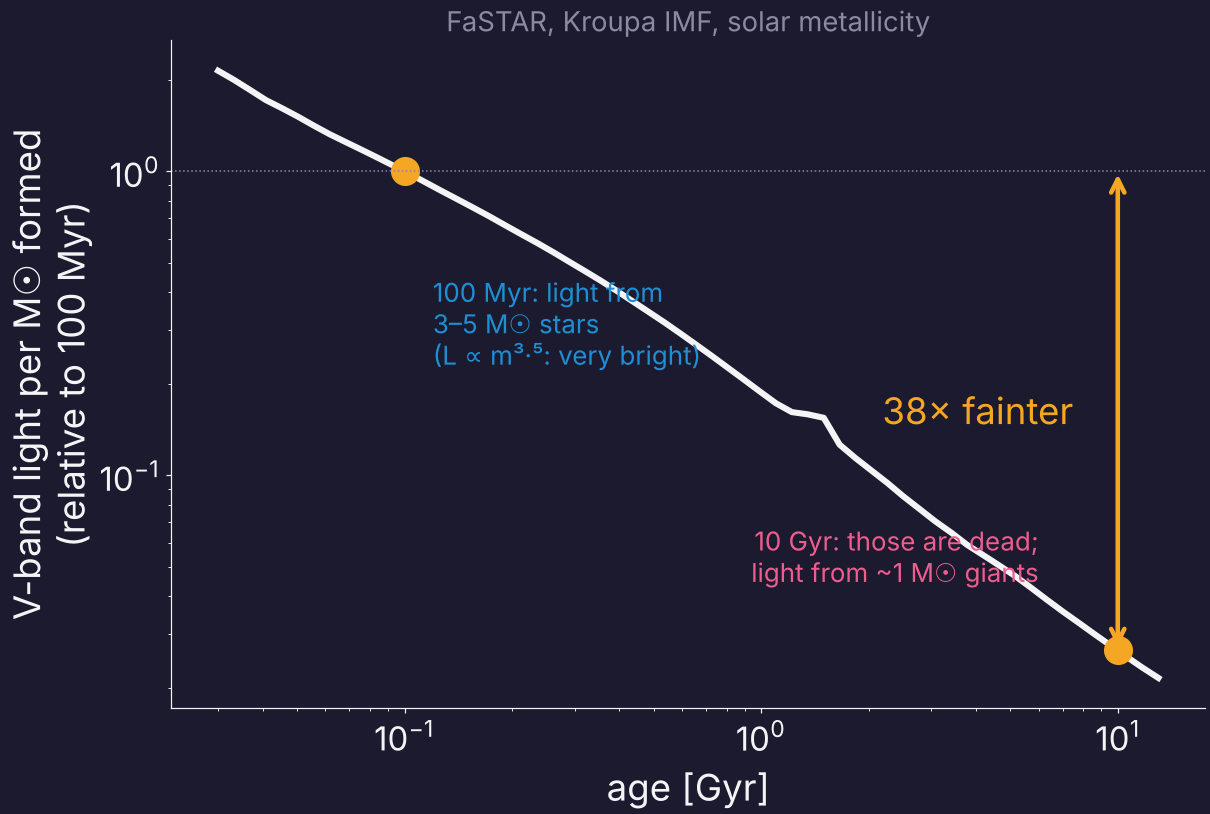
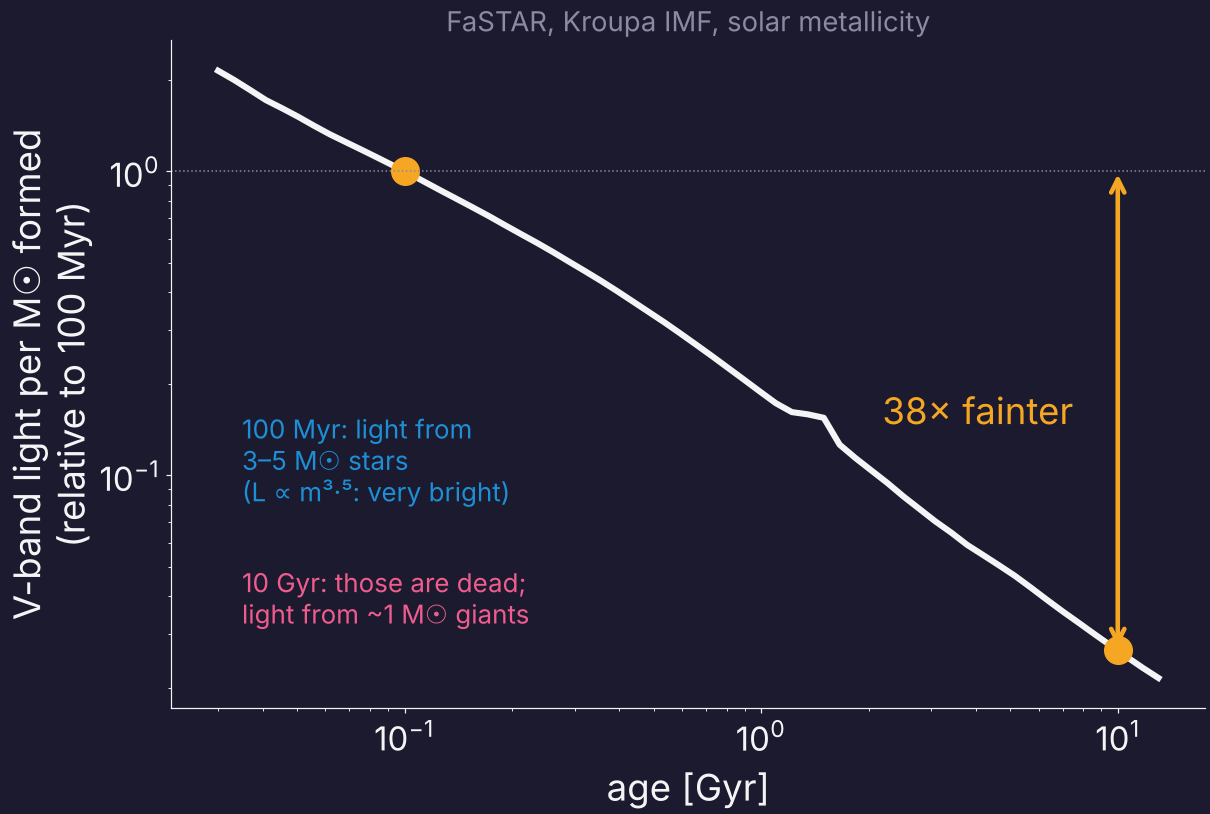
Notation, worked-example and element-clock figures for L2; fix recap fading figure
Claude-Session: https://claude.ai/code/session_01WBTdaRnm2ChJRsu6zYFdBL

diff --git a/figures/make_notation_figs.py b/figures/make_notation_figs.py
@@ -1,0 +1,157 @@
+"""Figures for the notation section and the 'which elements tell time' slide of Lecture 2.
+Run: python make_notation_figs.py  ->  slides_elements/n*.png, ex*.png, t_clock.png
+Solar abundances: Asplund et al. (2009, ARA&A 47, 481).
+"""
+import os, sys
+sys.path.insert(0, os.path.join(os.path.dirname(__file__), ".."))
+import numpy as np
+import matplotlib.pyplot as plt
+from matplotlib.patches import Rectangle
+from stellarpops import run_one_zone
+from stellarpops.origins import SOURCES
+from stellarpops.style import use_slide_style, BG, FG, BLUE, ORANGE, PINK, GREEN, GREY
+
+HERE = os.path.dirname(os.path.abspath(__file__))
+OUT = os.path.join(HERE, "slides_elements"); os.makedirs(OUT, exist_ok=True)
+use_slide_style(scale=1.25)
+plt.rcParams["font.family"] = "DejaVu Sans"
+VIOLET = "#b39dff"
+# log eps (Asplund+09) and atomic masses
+A09 = {"H": (12.00, 1.008), "He": (10.93, 4.003), "C": (8.43, 12.011), "N": (7.83, 14.007), "O": (8.69, 15.999),
+       "Ne": (7.93, 20.18), "Na": (6.24, 22.99), "Mg": (7.60, 24.305), "Al": (6.45, 26.98), "Si": (7.51, 28.085),
+       "S": (7.12, 32.06), "Ar": (6.40, 39.95), "Ca": (6.34, 40.08), "Cr": (5.64, 52.0), "Fe": (7.50, 55.845),
+       "Ni": (6.22, 58.69), "Ba": (2.18, 137.3), "Eu": (0.52, 152.0)}
+
+
+def save(fig, name):
+    fig.savefig(os.path.join(OUT, name + ".png"), dpi=110); plt.close(fig); print("saved", name)
+
+
+# N1 ---------------------------------------------------------- the Sun by mass
+def n1():
+    m = {k: 10 ** (e - 12) * a for k, (e, a) in A09.items()}
+    tot = sum(m.values()); X, Y = m["H"] / tot, m["He"] / tot; Z = 1 - X - Y
+    met = {k: v / tot / Z for k, v in m.items() if k not in ("H", "He")}
+    fig, (a1, a2) = plt.subplots(1, 2, figsize=(14, 7.2), gridspec_kw=dict(width_ratios=[1, 1.5], wspace=0.35))
+    fig.subplots_adjust(left=0.05, right=0.98, top=0.88, bottom=0.14)
+    # left: X, Y, Z stacked bar
+    y0 = 0
+    for lab, v, c in (("X  hydrogen", X, BLUE), ("Y  helium", Y, GREEN), ("Z  'metals'", Z, ORANGE)):
+        a1.bar(0, v, bottom=y0, color=c, width=0.6)
+        if v > 0.05:
+            a1.text(0.4, y0 + v * (0.3 if "helium" in lab else 0.5), f"{lab}\n{v:.3f}", va="center", fontsize=19, color=c)
+        else:
+            a1.annotate(f"{lab} {v:.4f}", (0.3, y0 + v / 2), (0.45, 0.94), fontsize=17, color=c,
+                        arrowprops=dict(arrowstyle="->", color=c, lw=2))
+        y0 += v
+    a1.set_xlim(-0.4, 1.6); a1.set_ylim(0, 1.0); a1.set_xticks([]); a1.set_ylabel("mass fraction")
+    a1.set_title("the Sun by mass", fontsize=20, color=GREY, pad=18)
+    a1.spines["bottom"].set_visible(False)
+    # right: what Z is made of
+    keys = ["O", "C", "Fe", "Ne", "Si", "Mg", "N", "S", "rest"]
+    vals = [met[k] for k in keys[:-1]]; vals.append(1 - sum(vals))
+    cols = [BLUE if k in ("O", "Ne", "Mg", "Si", "S") else ORANGE if k == "Fe" else GREEN if k in ("C", "N") else GREY for k in keys]
+    a2.barh(np.arange(len(keys))[::-1], np.array(vals) * 100, color=cols)
+    for i, (k, v) in enumerate(zip(keys, vals)):
+        a2.text(v * 100 + 0.8, len(keys) - 1 - i, f"{100 * v:.0f}%", va="center", fontsize=18)
+    a2.set_yticks(np.arange(len(keys))[::-1]); a2.set_yticklabels(keys, fontsize=20)
+    a2.set_xlabel("% of the metal mass Z"); a2.set_xlim(0, 52)
+    a2.set_title("what the 1.3% of 'metals' is made of", fontsize=20, color=GREY)
+    print("N1: X Y Z", round(X, 4), round(Y, 4), round(Z, 4), {k: round(100 * v) for k, v in zip(keys, vals)})
+    save(fig, "n1_sun_composition")
+
+
+# N2 ---------------------------------------------------------- log eps ladder
+def n2():
+    fig, ax = plt.subplots(figsize=(14, 7.6)); fig.subplots_adjust(left=0.1, right=0.97, top=0.95, bottom=0.08)
+    show = [("H", 12.00, BLUE), ("He", 10.93, GREEN), ("O", 8.69, BLUE), ("C", 8.43, GREEN), ("Mg", 7.60, BLUE),
+            ("Fe", 7.50, ORANGE), ("Ba", 2.18, GREEN), ("Eu", 0.52, PINK)]
+    ax.set_ylim(-0.5, 12.8); ax.set_xlim(0, 10); ax.set_xticks([])
+    ax.set_ylabel("log ε(X) = log₁₀(N_X / N_H) + 12")
+    for s in ("top", "right", "bottom"):
+        ax.spines[s].set_visible(False)
+    xpos = {"H": 0.6, "He": 0.6, "O": 0.6, "C": 5.4, "Mg": 0.6, "Fe": 5.4, "Ba": 0.6, "Eu": 0.6}
+    def per(n):
+        if n < 1e6:
+            return f"1 per {n:,.0f} H"
+        ex = int(np.floor(np.log10(n))); return f"1 per {n / 10 ** ex:.0f} × 10^{ex} H"
+    for k, e, c in show:
+        x = xpos[k]
+        if x < 2:
+            ax.plot([0, x - 0.1], [e, e], color=c, lw=1.5, ls=":")
+        ax.text(x, e, f"{k}  {e:.2f}", va="center", fontsize=20, color=c, fontweight="bold")
+        ax.text(x + 1.9, e, "the reference" if k == "H" else per(10 ** (12 - e)), va="center", fontsize=16, color=GREY)
+    ax.text(9.9, 5.6, "1 step down = 10× fewer atoms", ha="right", fontsize=17, color=FG)
+    ax.annotate("", (9.5, 4.0), (9.5, 5.0), arrowprops=dict(arrowstyle="->", color=FG, lw=2))
+    print("N2 done")
+    save(fig, "n2_logeps_ladder")
+
+
+# EX1 -------------------------------------------------------- the star on the plateau
+def ex1():
+    r = run_one_zone(tau_sf=2.0, infall_tau=7.0, eta=1.0)
+    ok = np.isfinite(r["FeH"]) & (r["FeH"] > -3.4)
+    fig, ax = plt.subplots(figsize=(11, 7.2)); fig.subplots_adjust(left=0.13, right=0.97, top=0.95, bottom=0.13)
+    ax.plot(r["FeH"][ok], r["MgFe"][ok], color=BLUE, lw=4, label="toy Milky-Way model (notebook 03)")
+    ax.plot(-1.5, 0.4, "*", ms=34, color=ORANGE, mec=FG, label="our star: [Fe/H] = −1.5, [Mg/Fe] = +0.4")
+    ax.axhline(0, color=GREY, lw=1, ls=":"); ax.axvline(0, color=GREY, lw=1, ls=":")
+    ax.text(-3.3, 0.5, "plateau: massive-star SNe only", fontsize=17, color=GREY)
+    ax.text(-0.95, -0.15, "white dwarfs add iron\n→ [Mg/Fe] falls", fontsize=17, color=GREY)
+    ax.set_xlim(-3.4, 0.5); ax.set_ylim(-0.3, 0.7)
+    ax.set_xlabel("[Fe/H]"); ax.set_ylabel("[Mg/Fe]"); ax.legend(loc="lower left", fontsize=15)
+    save(fig, "ex1_star_on_plateau")
+
+
+# EX2 -------------------------------------------------------- alpha enhancement and Z
+def ex2():
+    zsun, fa = 0.0134, 0.638
+    cases = [("solar mix\n[Fe/H] = −1", 0.0), ("α-enhanced\n[Fe/H] = −1, [α/Fe] = +0.4", 0.4)]
+    fig, ax = plt.subplots(figsize=(11, 7.2)); fig.subplots_adjust(left=0.14, right=0.97, top=0.93, bottom=0.17)
+    for i, (lab, ae) in enumerate(cases):
+        a = zsun * 0.1 * fa * 10 ** ae; rest = zsun * 0.1 * (1 - fa)
+        ax.bar(i, rest * 1e3, color=ORANGE, width=0.55, label="Fe-peak, C, N, … (unchanged)" if i == 0 else None)
+        ax.bar(i, a * 1e3, bottom=rest * 1e3, color=BLUE, width=0.55, label="α elements: O, Ne, Mg, Si, S, Ca" if i == 0 else None)
+        z = a + rest
+        ax.text(i, z * 1e3 + 0.08, f"Z = {z:.4f}\n[M/H] = {np.log10(z / zsun):+.2f}", ha="center", fontsize=19)
+    ax.set_xticks([0, 1]); ax.set_xticklabels([c[0] for c in cases], fontsize=17)
+    ax.set_ylabel("metal mass fraction Z  [×10⁻³]"); ax.set_ylim(0, 3.6); ax.legend(loc="upper left", fontsize=15)
+    save(fig, "ex2_alpha_Z")
+
+
+# EX3 -------------------------------------------------------- averaging logs
+def ex3():
+    fig, ax = plt.subplots(figsize=(11, 7.2)); fig.subplots_adjust(left=0.08, right=0.97, top=0.9, bottom=0.2)
+    pts = [(0, "cloud A\n(solar)", BLUE, 0.75), (-2, "cloud B", GREEN, 0.75), (-1, "WRONG:\naverage of\nthe logs", PINK, 0.3),
+           (np.log10(0.505), "RIGHT:\nlog of the\naverage", ORANGE, 0.3)]
+    ax.set_xlim(-2.6, 0.6); ax.set_ylim(0, 1); ax.set_yticks([])
+    for s in ("left", "right", "top"):
+        ax.spines[s].set_visible(False)
+    for x, lab, c, y in pts:
+        ax.plot([x, x], [0, y - 0.12], color=c, lw=3); ax.plot(x, 0.02, "o", ms=18, color=c, clip_on=False)
+        ax.text(x, y, lab + f"\n{x:+.2f}", ha="center", va="bottom", fontsize=17, color=c)
+    ax.set_xlabel("[Fe/H]")
+    sec = ax.secondary_xaxis("top", functions=(lambda v: 10 ** v, lambda v: np.log10(np.clip(v, 1e-9, None))))
+    sec.set_xticks([0.01, 0.1, 0.505, 1]); sec.set_xticklabels(["0.01", "0.1", "0.505", "1"]); sec.set_xlabel("iron per H relative to the Sun (linear)")
+    save(fig, "ex3_averaging")
+
+
+# T ----------------------------------------------------------- when each factory switches on
+def t_clock():
+    fig, ax = plt.subplots(figsize=(17, 7.6)); fig.subplots_adjust(left=0.24, right=0.97, top=0.9, bottom=0.14)
+    rows = [("ccsn", "O, Mg, Si, Ca (α)", 3e-3, 4e-2), ("r", "Eu, Au, Pt (r-process)", 1e-2, 3.0),
+            ("agb", "C, N, Sr, Ba, Pb (s-process)", 1e-1, 13.0), ("ia", "Fe, Mn, Ni (iron peak)", 4e-2, 13.0)]
+    for i, (k, lab, a, b) in enumerate(rows):
+        y = len(rows) - 1 - i
+        ax.barh(y, b - a, left=a, height=0.55, color=SOURCES[k][1])
+        ax.text(2e-3 / 1.15, y, lab, ha="right", va="center", fontsize=19, color=SOURCES[k][1])
+        ax.text(a * 1.15, y + 0.42, SOURCES[k][0], fontsize=15, color=GREY)
+    ax.set_xscale("log"); ax.set_xlim(2e-3, 14); ax.set_ylim(-0.6, len(rows) - 0.2); ax.set_yticks([])
+    ax.set_xticks([3e-3, 1e-2, 4e-2, 3e-1, 1, 10]); ax.set_xticklabels(["3 Myr", "10 Myr", "40 Myr", "300 Myr", "1 Gyr", "10 Gyr"])
+    ax.set_xlabel("time after the stars are born")
+    ax.axvline(4e-2, color=FG, lw=1.5, ls="--"); ax.text(4.3e-2, len(rows) - 0.35, "first white dwarfs explode", fontsize=15)
+    ax.set_title("prompt / delayed:  [Mg/Fe], [Y/Mg], [Eu/Fe], [N/O] are all clocks", fontsize=19, color=GREY)
+    save(fig, "t_clock")
+
+
+if __name__ == "__main__":
+    n1(); n2(); ex1(); ex2(); ex3(); t_clock()

diff --git a/figures/make_recap_figs.py b/figures/make_recap_figs.py
@@ -89,8 +89,8 @@ def r4():
     ax.annotate("", (10, l10), (10, 1), arrowprops=dict(arrowstyle="<->", color=ORANGE, lw=3))
     ax.axhline(1, color=GREY, lw=1, ls=":")
     ax.text(7.5, np.sqrt(l10), f"{1 / l10:.0f}× fainter", color=ORANGE, fontsize=24, ha="right", va="center")
-    ax.text(0.12, 0.45, "100 Myr: light from\n3–5 M☉ stars\n(L ∝ m³·⁵: very bright)", color=BLUE, fontsize=17, va="top")
-    ax.text(6.0, l10 * 1.6, "10 Gyr: those are dead;\nlight from ~1 M☉ giants", color=PINK, fontsize=17, va="bottom", ha="right")
+    ax.text(0.035, 0.16, "100 Myr: light from\n3–5 M☉ stars\n(L ∝ m³·⁵: very bright)", color=BLUE, fontsize=17, va="top")
+    ax.text(0.035, 0.05, "10 Gyr: those are dead;\nlight from ~1 M☉ giants", color=PINK, fontsize=17, va="top", ha="left")
     ax.set_xlabel("age [Gyr]"); ax.set_ylabel("V-band light per M☉ formed\n(relative to 100 Myr)")
     ax.set_title("FaSTAR, Kroupa IMF, solar metallicity", fontsize=18, color=GREY)
     print("R4: fading factor", round(1 / l10, 1))
